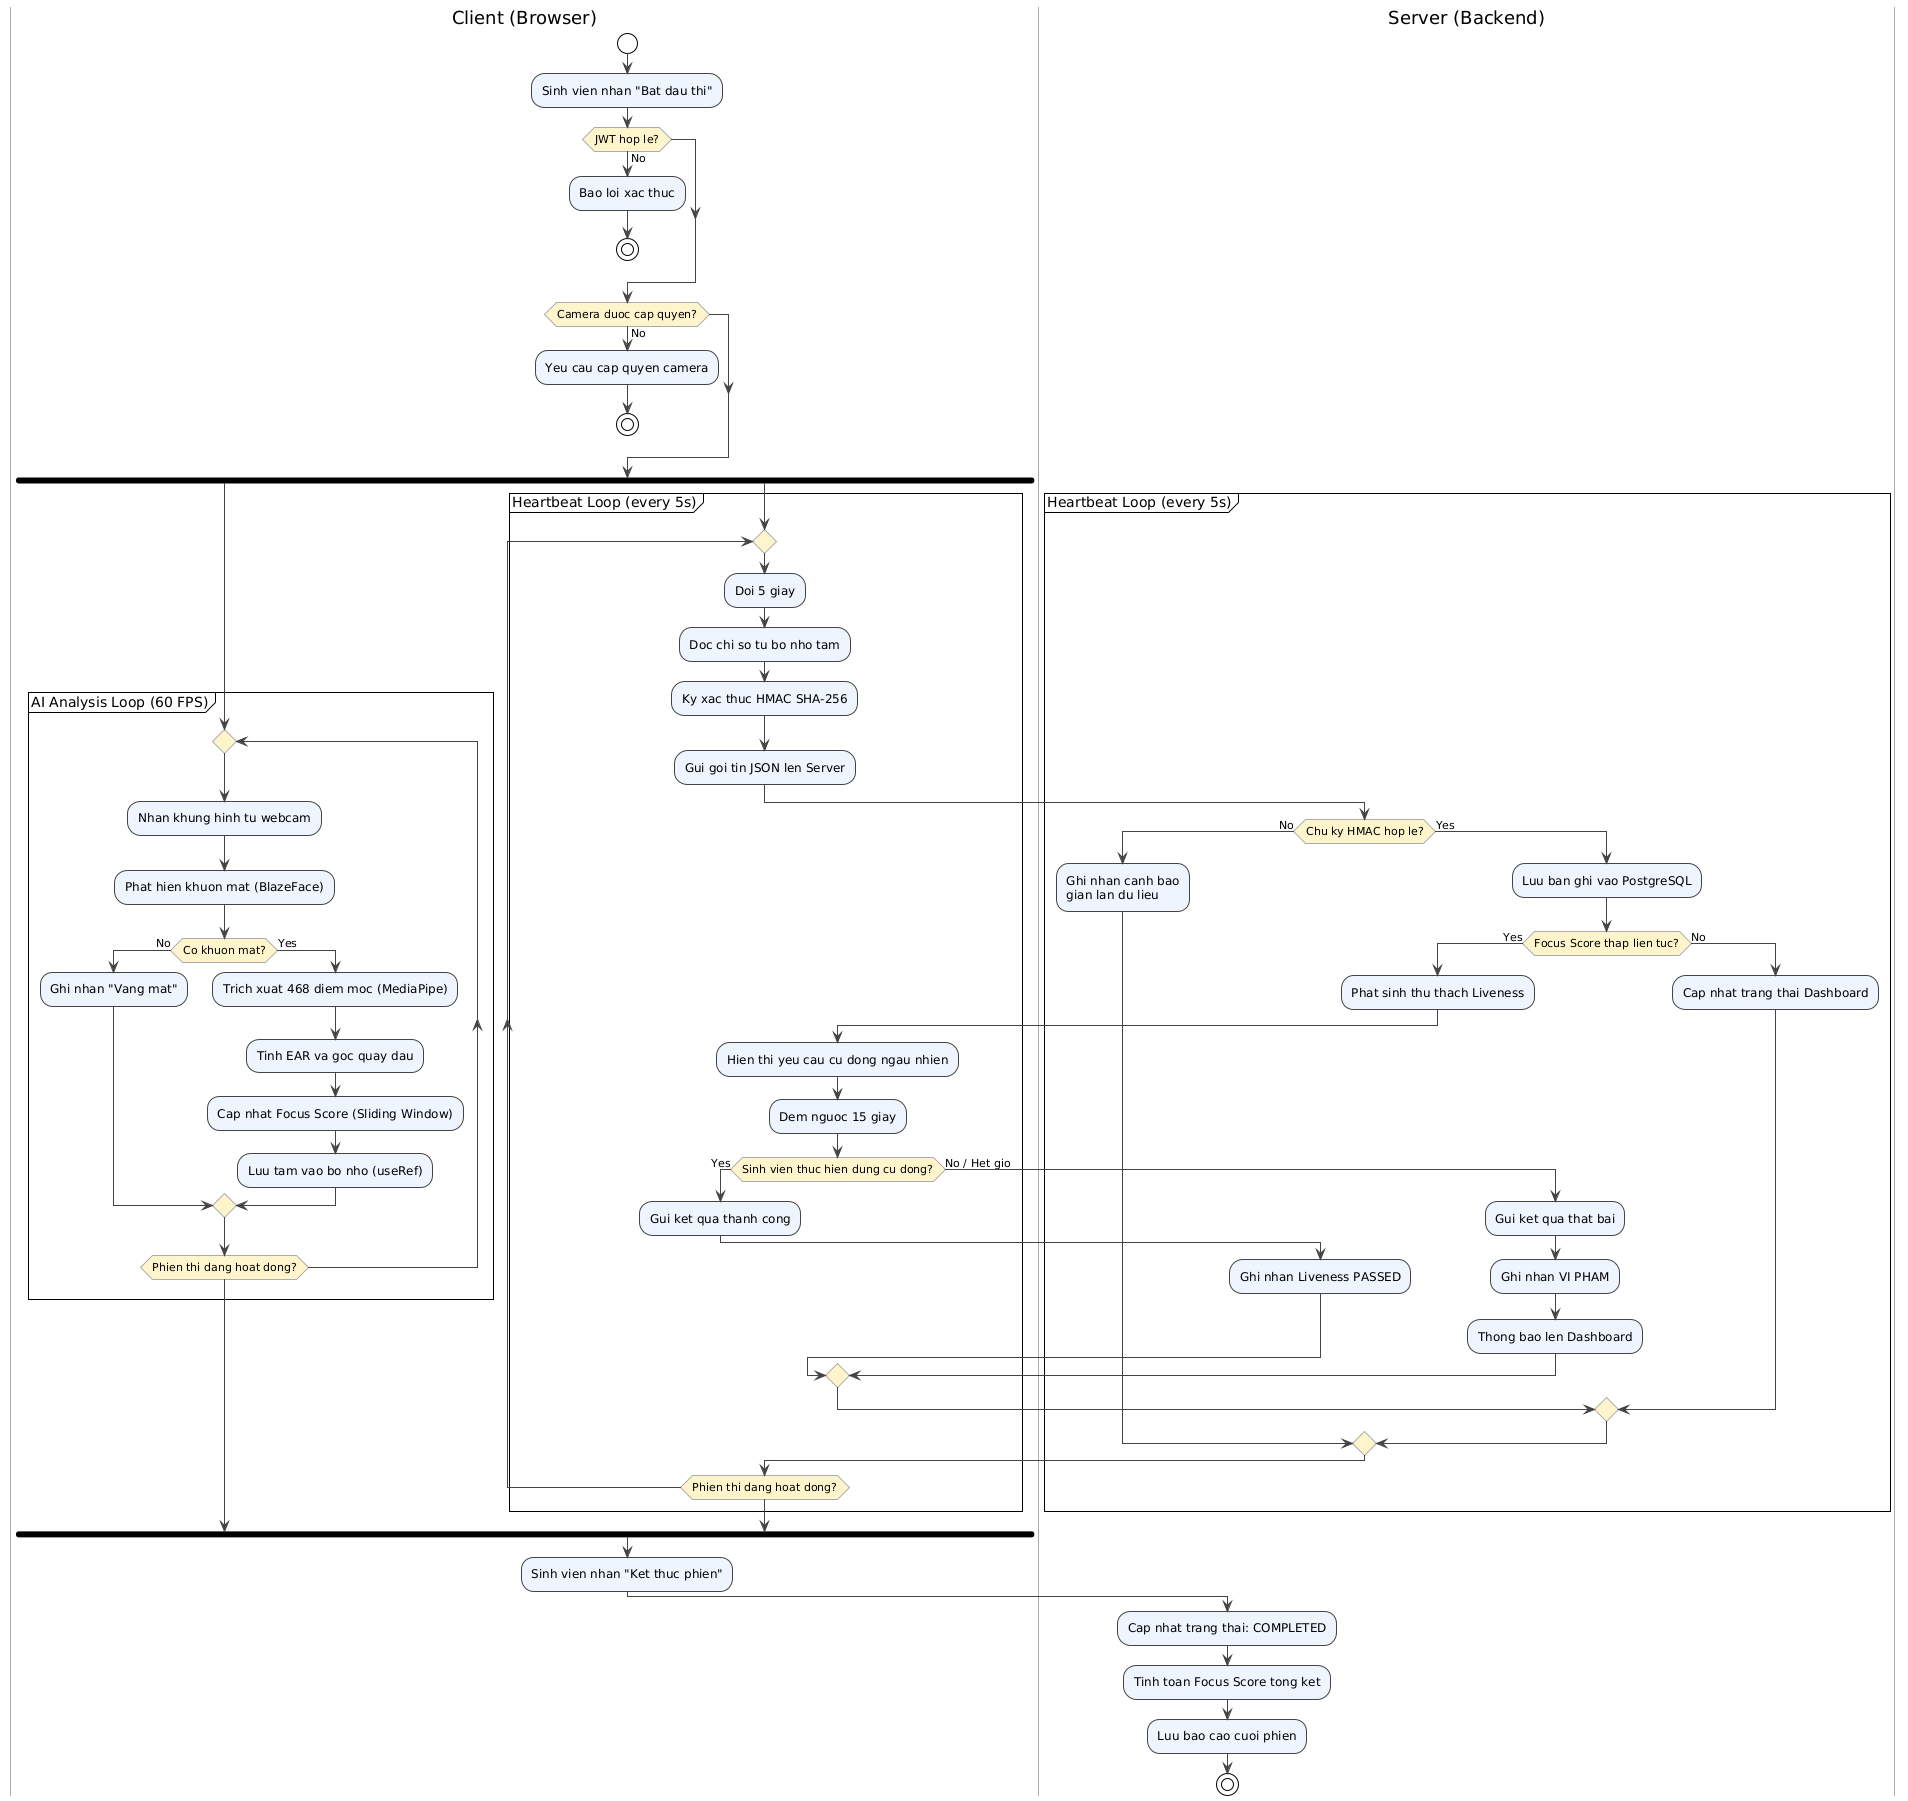
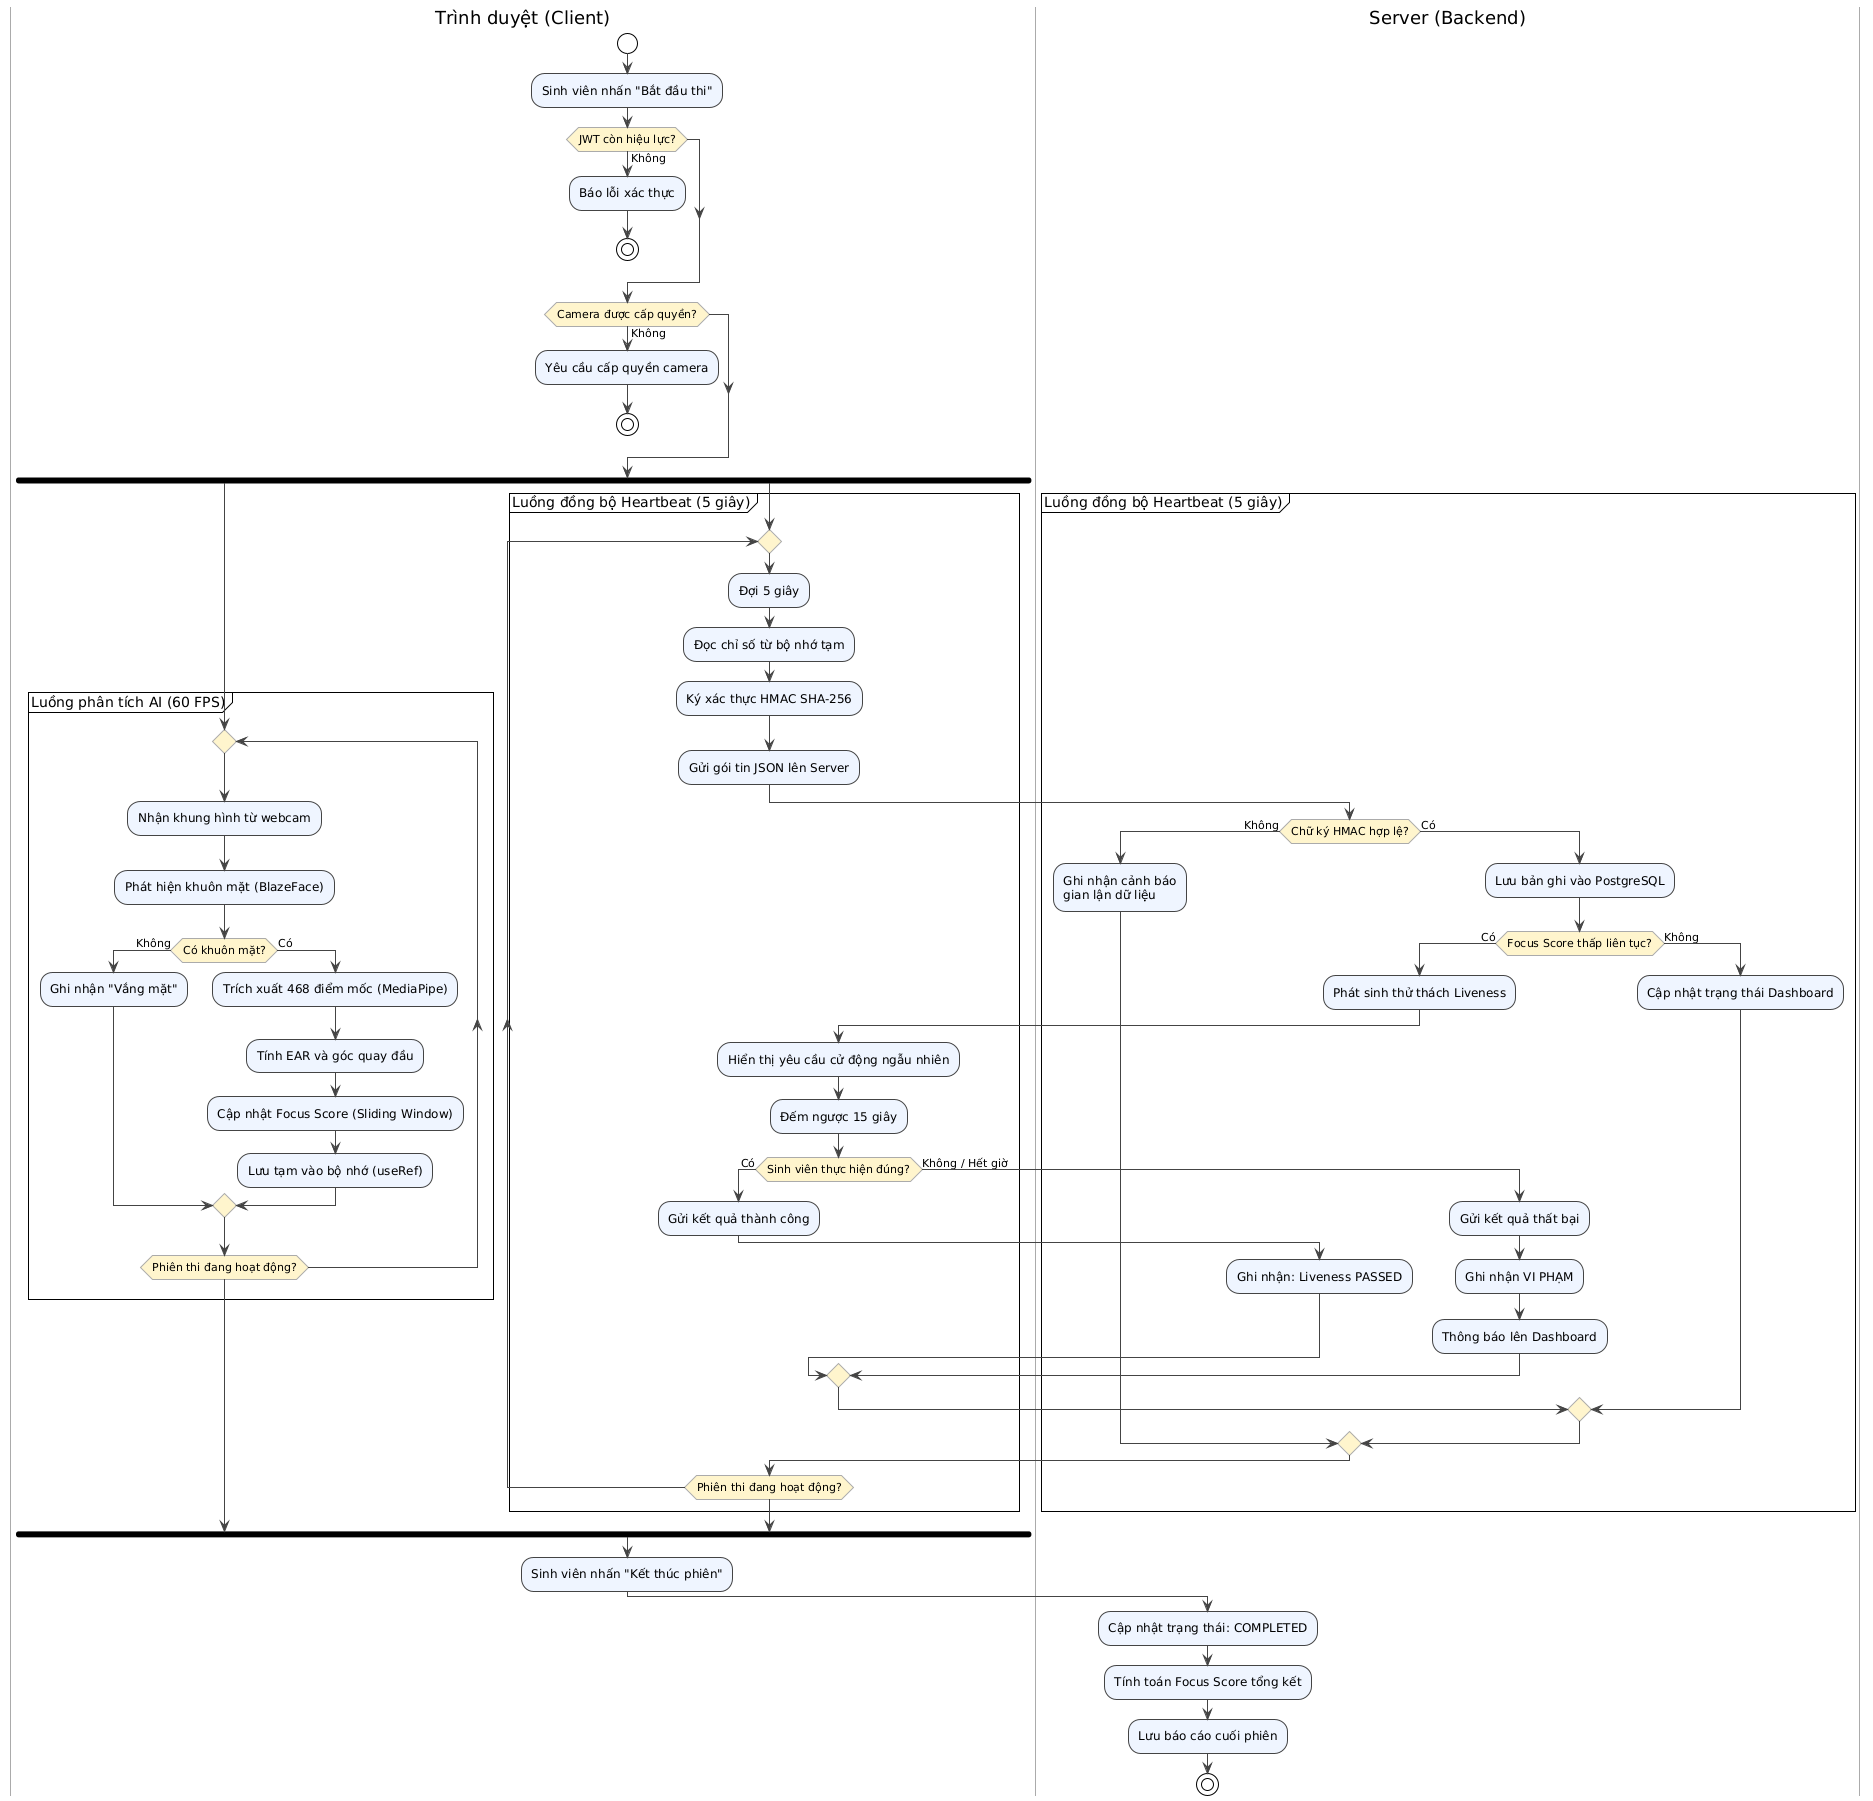
feat: add activity diagram generation script and output image file

diff --git a/generate_activity.py b/generate_activity.py
@@ -20,74 +20,74 @@ skinparam ActivityDiamondBorderColor #AAAAAA
 skinparam SwimlaneBorderColor #AAAAAA
 skinparam SwimlaneBackgroundColor #FAFAFA
 
-|Client (Browser)|
+|Trình duyệt (Client)|
 start
-:Sinh vien nhan "Bat dau thi";
-if (JWT hop le?) then (No)
-  :Bao loi xac thuc;
+:Sinh viên nhấn "Bắt đầu thi";
+if (JWT còn hiệu lực?) then (Không)
+  :Báo lỗi xác thực;
   stop
 endif
-if (Camera duoc cap quyen?) then (No)
-  :Yeu cau cap quyen camera;
+if (Camera được cấp quyền?) then (Không)
+  :Yêu cầu cấp quyền camera;
   stop
 endif
 fork
-  partition "AI Analysis Loop (60 FPS)" {
+  partition "Luồng phân tích AI (60 FPS)" {
     repeat
-      :Nhan khung hinh tu webcam;
-      :Phat hien khuon mat (BlazeFace);
-      if (Co khuon mat?) then (No)
-        :Ghi nhan "Vang mat";
-      else (Yes)
-        :Trich xuat 468 diem moc (MediaPipe);
-        :Tinh EAR va goc quay dau;
-        :Cap nhat Focus Score (Sliding Window);
-        :Luu tam vao bo nho (useRef);
+      :Nhận khung hình từ webcam;
+      :Phát hiện khuôn mặt (BlazeFace);
+      if (Có khuôn mặt?) then (Không)
+        :Ghi nhận "Vắng mặt";
+      else (Có)
+        :Trích xuất 468 điểm mốc (MediaPipe);
+        :Tính EAR và góc quay đầu;
+        :Cập nhật Focus Score (Sliding Window);
+        :Lưu tạm vào bộ nhớ (useRef);
       endif
-    repeat while (Phien thi dang hoat dong?)
+    repeat while (Phiên thi đang hoạt động?)
   }
 fork again
-  partition "Heartbeat Loop (every 5s)" {
+  partition "Luồng đồng bộ Heartbeat (5 giây)" {
     repeat
-      :Doi 5 giay;
-      :Doc chi so tu bo nho tam;
-      :Ky xac thuc HMAC SHA-256;
-      :Gui goi tin JSON len Server;
+      :Đợi 5 giây;
+      :Đọc chỉ số từ bộ nhớ tạm;
+      :Ký xác thực HMAC SHA-256;
+      :Gửi gói tin JSON lên Server;
 
       |Server (Backend)|
-      if (Chu ky HMAC hop le?) then (No)
-        :Ghi nhan canh bao\ngian lan du lieu;
-      else (Yes)
-        :Luu ban ghi vao PostgreSQL;
-        if (Focus Score thap lien tuc?) then (Yes)
-          :Phat sinh thu thach Liveness;
+      if (Chữ ký HMAC hợp lệ?) then (Không)
+        :Ghi nhận cảnh báo\\ngian lận dữ liệu;
+      else (Có)
+        :Lưu bản ghi vào PostgreSQL;
+        if (Focus Score thấp liên tục?) then (Có)
+          :Phát sinh thử thách Liveness;
 
-          |Client (Browser)|
-          :Hien thi yeu cau cu dong ngau nhien;
-          :Dem nguoc 15 giay;
-          if (Sinh vien thuc hien dung cu dong?) then (Yes)
-            :Gui ket qua thanh cong;
+          |Trình duyệt (Client)|
+          :Hiển thị yêu cầu cử động ngẫu nhiên;
+          :Đếm ngược 15 giây;
+          if (Sinh viên thực hiện đúng?) then (Có)
+            :Gửi kết quả thành công;
             |Server (Backend)|
-            :Ghi nhan Liveness PASSED;
-          else (No / Het gio)
-            :Gui ket qua that bai;
+            :Ghi nhận: Liveness PASSED;
+          else (Không / Hết giờ)
+            :Gửi kết quả thất bại;
             |Server (Backend)|
-            :Ghi nhan VI PHAM;
-            :Thong bao len Dashboard;
+            :Ghi nhận VI PHẠM;
+            :Thông báo lên Dashboard;
           endif
-        else (No)
-          :Cap nhat trang thai Dashboard;
+        else (Không)
+          :Cập nhật trạng thái Dashboard;
         endif
       endif
-      |Client (Browser)|
-    repeat while (Phien thi dang hoat dong?)
+      |Trình duyệt (Client)|
+    repeat while (Phiên thi đang hoạt động?)
   }
 end fork
-:Sinh vien nhan "Ket thuc phien";
+:Sinh viên nhấn "Kết thúc phiên";
 |Server (Backend)|
-:Cap nhat trang thai: COMPLETED;
-:Tinh toan Focus Score tong ket;
-:Luu bao cao cuoi phien;
+:Cập nhật trạng thái: COMPLETED;
+:Tính toán Focus Score tổng kết;
+:Lưu báo cáo cuối phiên;
 stop
 @enduml
 """